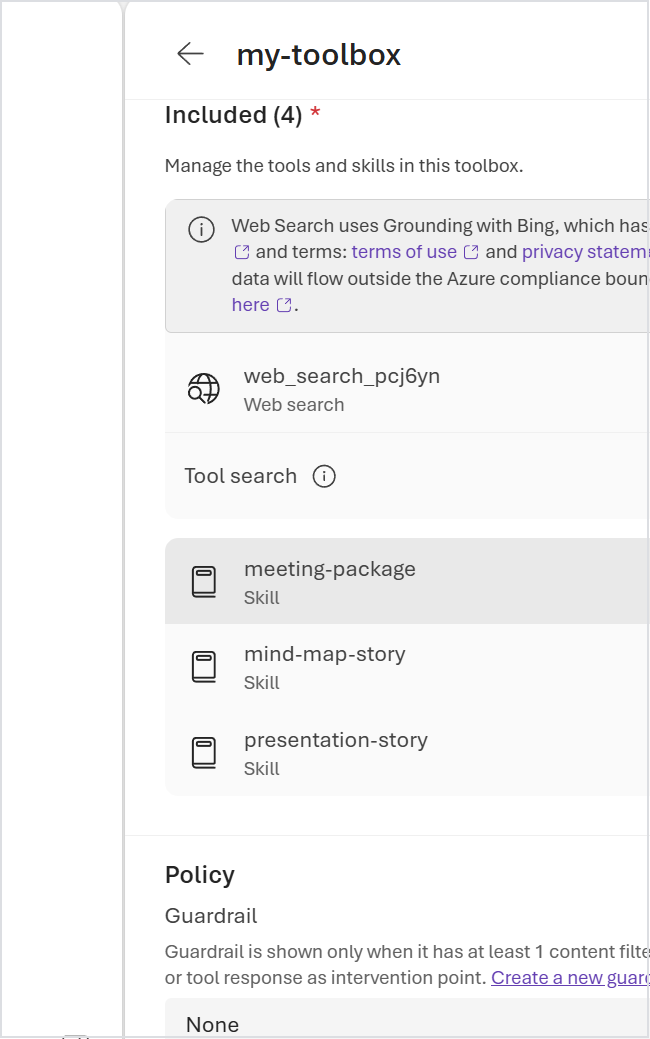
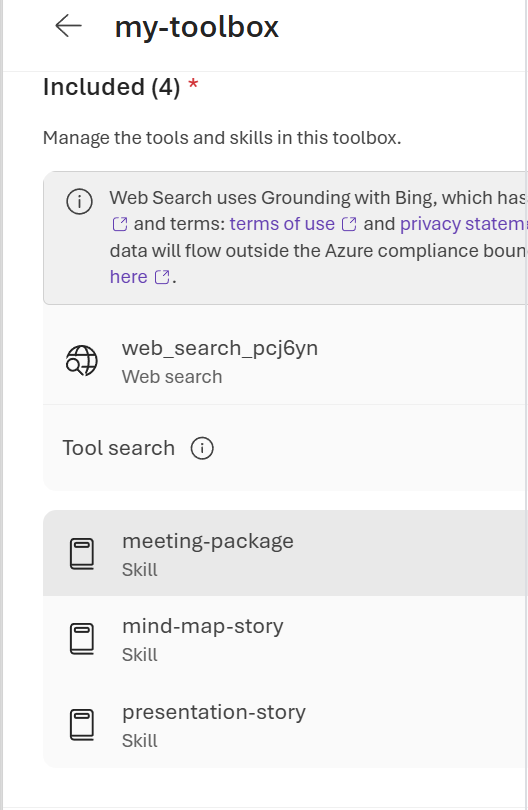
docs: tighten toolbox screenshot framing

diff --git a/Agents/Meeting-Agent/managed-agent/docs/FOUNDRY-PORTAL-EVIDENCE.md b/Agents/Meeting-Agent/managed-agent/docs/FOUNDRY-PORTAL-EVIDENCE.md
@@ -25,7 +25,7 @@ The Playground then shows the selected model and Agent instructions. The Toolbox
 The Toolbox view exposes Web Search and the meeting-output Skills. A Toolbox is a versioned Foundry resource whose MCP endpoint presents tools and Skill resources to the Agent. Toolbox is not the Hand Sandbox.
 
 <div align="center">
-<img src="../images/foundry-portal/toolbox-skills.png" width="800" alt="Sanitized Foundry Toolbox showing Web Search and meeting Skills">
+<img src="../images/foundry-portal/toolbox-skills.png" width="500" alt="Sanitized Foundry Toolbox showing Web Search and meeting Skills">
 </div>
 
 The screenshot is a Portal observation, not a complete inventory contract. Exact membership is version-scoped and should be verified through the Toolbox API or MCP `resources/list`. The repository source defines three meeting-output responsibilities:

diff --git a/Agents/Meeting-Agent/managed-agent/docs/FOUNDRY-PORTAL-EVIDENCE-CN.md b/Agents/Meeting-Agent/managed-agent/docs/FOUNDRY-PORTAL-EVIDENCE-CN.md
@@ -25,7 +25,7 @@ Playground 显示选中的模型与 Agent Instructions。Toolbox Endpoint 和资
 Toolbox 页面显示 Web Search 和会议输出 Skill。Toolbox 是版本化 Foundry 资源，通过 MCP Endpoint 向 Agent 暴露 Tool 与 Skill Resource；Toolbox 不是 Hand Sandbox。
 
 <div align="center">
-<img src="../images/foundry-portal/toolbox-skills.png" width="800" alt="脱敏 Foundry Toolbox：Web Search 与会议输出 Skill">
+<img src="../images/foundry-portal/toolbox-skills.png" width="500" alt="脱敏 Foundry Toolbox：Web Search 与会议输出 Skill">
 </div>
 
 该截图是 Portal Observation（界面观测），不是完整 Inventory Contract（清单契约）。精确成员必须按 Toolbox Version，通过 API 或 MCP `resources/list` 验证。当前 Repo 把三个会议输出职责拆开：

diff --git a/Agents/Meeting-Agent/README.md b/Agents/Meeting-Agent/README.md
@@ -101,7 +101,7 @@ The local browser workspace is the user-facing application; Microsoft Foundry is
 *The Agents list shows the cloud resource as `Running`, type `prompt`, with the GitHub Copilot harness. This is the cloud Agent, not the local React application.*
 
 <div align="center">
-<img src="managed-agent/images/foundry-portal/toolbox-skills.png" width="720" alt="Sanitized Foundry Toolbox showing Web Search and meeting Skills">
+<img src="managed-agent/images/foundry-portal/toolbox-skills.png" width="500" alt="Sanitized Foundry Toolbox showing Web Search and meeting Skills">
 </div>
 
 *Toolbox is the versioned MCP surface for tools and Skill resources. The meeting, mind-map, and presentation Skills own separate semantic responsibilities; Toolbox is not the Hand Sandbox.*

diff --git a/Agents/Meeting-Agent/README-CN.md b/Agents/Meeting-Agent/README-CN.md
@@ -101,7 +101,7 @@ Repo源码已使用与Classic路径相同的GPT-5.4模型系列重新部署。Pr
 *Agents 列表显示云端资源处于 `Running`，类型为 `prompt`，Harness 为 GitHub Copilot。这里展示的是云端 Agent，不是本机 React 应用。*
 
 <div align="center">
-<img src="managed-agent/images/foundry-portal/toolbox-skills.png" width="720" alt="脱敏 Foundry Toolbox：Web Search 与会议输出 Skill">
+<img src="managed-agent/images/foundry-portal/toolbox-skills.png" width="500" alt="脱敏 Foundry Toolbox：Web Search 与会议输出 Skill">
 </div>
 
 *Toolbox 是版本化 MCP Surface，用于治理 Tool 与 Skill Resource。Meeting、Mind Map 和 Presentation Skill 分别承担不同语义职责；Toolbox 不是 Hand Sandbox。*
